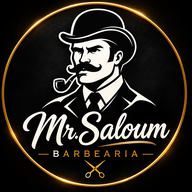
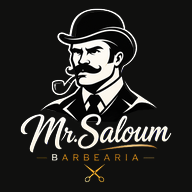
Padroniza a identidade visual do Mr.Saloum

Changed region(s): [[0.0, 0.0, 1.0, 1.0]]

diff --git a/src/App.jsx b/src/App.jsx
@@ -1,4 +1,5 @@
 import './App.css'
+import BrandLogo from './BrandLogo'
 import { lazy, Suspense, useEffect, useRef, useState } from 'react'
 import { supabase } from './lib/supabase'
 import { calcularDuracaoSlots, totalItensRegistrados } from './bookingValues'
@@ -651,9 +652,7 @@ function ClienteApp() {
     return (
       <main className="auth-page">
         <div className="auth-card">
-          <div className="auth-brand">
-            MR.SAL<span>OUM</span>
-          </div>
+          <BrandLogo className="auth-brand" />
 
           <p>Carregando sua área...</p>
         </div>
@@ -665,9 +664,7 @@ function ClienteApp() {
     return (
       <main className="auth-page">
         <div className="auth-card">
-          <div className="auth-brand">
-            MR.SAL<span>OUM</span>
-          </div>
+          <BrandLogo className="auth-brand" />
 
           <p className="auth-eyebrow">SEJA BEM-VINDO</p>
 
@@ -731,13 +728,7 @@ function ClienteApp() {
     <main className="public-site">
       <header className="navbar">
         <a className="brand" href="#inicio">
-          <img
-            className="brand-logo"
-            src="/mr-saloum-logo-header.webp"
-            alt="Mr.Saloum Barbearia"
-            width="400"
-            height="460"
-          />
+          <BrandLogo className="brand-logo" />
         </a>
 
         <nav>
@@ -791,7 +782,7 @@ function ClienteApp() {
         <div role="presentation" onClick={() => setInstallOpen(false)} style={{position:'fixed',inset:0,zIndex:20000,background:'rgba(0,0,0,.78)',display:'flex',alignItems:'center',justifyContent:'center',padding:18}}>
           <section role="dialog" aria-modal="true" aria-labelledby="pwa-title" onClick={(e) => e.stopPropagation()} style={{position:'relative',width:'100%',maxWidth:410,background:'#191817',border:'1px solid #6b5638',borderRadius:18,padding:26,color:'#f5f1e9',boxShadow:'0 20px 80px #000a'}}>
             <button type="button" aria-label="Fechar convite" onClick={() => setInstallOpen(false)} style={{position:'absolute',right:14,top:12,background:'transparent',border:0,color:'#eee',fontSize:27,cursor:'pointer'}}>×</button>
-            <img src="/pwa-192.png" alt="Mr.Saloum" width="78" height="78" style={{borderRadius:18,objectFit:'cover',marginBottom:12}} />
+            <BrandLogo className="install-brand-logo" decorative />
             <h2 id="pwa-title" style={{margin:'0 0 10px',fontSize:23}}>Mr.Saloum no seu celular</h2>
             <p style={{lineHeight:1.6,color:'#d5d0c8'}}>Instale gratuitamente para agendar seu próximo corte com apenas um toque. Você também pode continuar usando o site normalmente.</p>
             {installPrompt ? (
@@ -1142,7 +1133,7 @@ function ClienteApp() {
           <p>Escolha seu profissional, selecione os serviços e reserve seu horário.</p>
         </div>
         <div className="hero-side-note">
-          <span className="hero-side-mark">M</span>
+          <BrandLogo className="hero-side-mark" decorative />
           <span>AGENDE ONLINE<br /><strong>SEM COMPLICAÇÃO</strong></span>
         </div>
       </section>
@@ -1416,8 +1407,7 @@ function ClienteApp() {
       {/* RODAPÉ */}
       <footer>
         <a className="brand" href="#inicio">
-          <span className="brand-mark">M</span>
-          <span>MR.SAL<span className="gold">OUM</span></span>
+          <BrandLogo className="footer-brand-logo" />
         </a>
 
         <p>
@@ -1436,7 +1426,7 @@ function App() {
   const caminho = window.location.pathname
 
   if (caminho.startsWith('/admin')) {
-    return <Suspense fallback={<p role="status">Carregando painel?</p>}><AdminPage /></Suspense>
+    return <Suspense fallback={<div role="status"><BrandLogo className="auth-brand" />Carregando painel?</div>}><AdminPage /></Suspense>
   }
 
   return <ClienteApp />

diff --git a/index.html b/index.html
@@ -2,8 +2,10 @@
 <html lang="pt-BR">
   <head>
     <meta charset="UTF-8" />
-    <link rel="icon" type="image/png" sizes="48x48" href="/favicon-48.png" />
-    <link rel="apple-touch-icon" sizes="192x192" href="/pwa-192.png" />
+    <link rel="icon" type="image/png" sizes="16x16" href="/favicon-16.png?v=11" />
+    <link rel="icon" type="image/png" sizes="32x32" href="/favicon-32.png?v=11" />
+    <link rel="icon" type="image/png" sizes="48x48" href="/favicon-48.png?v=11" />
+    <link rel="apple-touch-icon" sizes="180x180" href="/apple-touch-icon.png?v=11" />
     <meta name="viewport" content="width=device-width, initial-scale=1.0" />
     <title>Mr.Saloum Barbearia em Parnamirim | Agende Online</title>
     <meta name="description" content="Agende seu corte de cabelo, barba e sobrancelha na Mr.Saloum Barbearia, em Parnamirim/RN. Escolha seu barbeiro e reserve seu horário online." />
@@ -14,14 +16,14 @@
     <meta property="og:url" content="%SITE_ORIGIN%/" />
     <meta property="og:title" content="Mr.Saloum Barbearia em Parnamirim | Agende Online" />
     <meta property="og:description" content="Escolha seu barbeiro e agende seu corte, barba ou sobrancelha em Parnamirim/RN." />
-    <meta property="og:image" content="%SITE_ORIGIN%/mr-saloum-share.jpg" />
+    <meta property="og:image" content="%SITE_ORIGIN%/mr-saloum-share.jpg?v=11" />
     <meta property="og:image:width" content="1200" />
     <meta property="og:image:height" content="630" />
     <meta property="og:image:alt" content="Logotipo oficial da Mr.Saloum Barbearia sobre fundo preto" />
     <meta name="twitter:card" content="summary_large_image" />
     <meta name="twitter:title" content="Mr.Saloum Barbearia em Parnamirim | Agende Online" />
     <meta name="twitter:description" content="Escolha seu barbeiro e agende seu corte, barba ou sobrancelha em Parnamirim/RN." />
-    <meta name="twitter:image" content="%SITE_ORIGIN%/mr-saloum-share.jpg" />
+    <meta name="twitter:image" content="%SITE_ORIGIN%/mr-saloum-share.jpg?v=11" />
     <meta name="twitter:image:alt" content="Logotipo oficial da Mr.Saloum Barbearia sobre fundo preto" />
     <script type="application/ld+json">
       {
@@ -29,7 +31,7 @@
         "@type": "HairSalon",
         "name": "Mr.Saloum Barbearia",
         "url": "%SITE_ORIGIN%/",
-        "image": "%SITE_ORIGIN%/mr-saloum-share.jpg",
+        "image": "%SITE_ORIGIN%/mr-saloum-share.jpg?v=11",
         "address": {
           "@type": "PostalAddress",
           "addressLocality": "Parnamirim",

diff --git a/src/App.css b/src/App.css
@@ -1217,23 +1217,11 @@ input {
 
 
 .auth-brand {
-
-  font-size: 25px;
-
-  font-weight: 800;
-
-  margin-bottom: 35px;
-
-  letter-spacing: 1px;
-
-}
-
-
-
-.auth-brand span {
-
-  color: #c49a52;
-
+  display: block;
+  width: auto;
+  height: 86px;
+  margin-bottom: 20px;
+  object-fit: contain;
 }
 
 
@@ -4434,6 +4422,19 @@ main.public-site .brand-logo {
   object-fit: contain;
 }
 
+main.public-site .footer-brand-logo,
+main.public-site .install-brand-logo {
+  display: block;
+  width: auto;
+  height: 56px;
+  object-fit: contain;
+}
+
+main.public-site .install-brand-logo {
+  height: 78px;
+  margin-bottom: 12px;
+}
+
 html:has(main.public-site > .navbar) {
   scroll-padding-top: 90px;
 }
@@ -4536,13 +4537,9 @@ main.public-site .hero-side-note strong {
 }
 
 main.public-site .hero-side-mark {
-  display: grid;
-  place-items: center;
-  width: 35px;
-  height: 35px;
-  border: 1px solid var(--ms-accent);
-  color: var(--ms-accent);
-  font: 25px Georgia, serif;
+  width: auto;
+  height: 38px;
+  object-fit: contain;
 }
 
 main.public-site .booking-workspace {
@@ -6093,8 +6090,7 @@ main.public-site .navbar-actions .nav-button {
   padding-block: 12px;
 }
 
-.admin-shell-brand { font-size: 1.18rem; letter-spacing: .08em; }
-.admin-shell-brand span { color: #c5a46d; }
+.admin-shell-brand { display: block; width: auto; height: 48px; object-fit: contain; }
 .admin-shell-account { display: grid; justify-items: end; min-width: 0; }
 .admin-shell-account strong { max-width: 100%; overflow: hidden; text-overflow: ellipsis; white-space: nowrap; }
 .admin-shell-account span { color: #c0b8a8; font-size: .73rem; }
@@ -6177,7 +6173,7 @@ main.public-site .navbar-actions .nav-button {
 @media (max-width: 680px) {
   .admin-shell-top, .admin-shell-nav, .admin-shell-content { width: calc(100% - 20px); }
   .admin-shell-top { gap: 9px; padding-block: 8px; }
-  .admin-shell-brand { font-size: .95rem; }
+  .admin-shell-brand { height: 42px; }
   .admin-shell-account { font-size: .85rem; }
   .admin-shell-nav { gap: 2px; }
   .admin-shell-nav button { flex: 1; flex-direction: column; gap: 3px; font-size: .72rem; padding-inline: 1px; }

diff --git a/src/AdminApp.jsx b/src/AdminApp.jsx
@@ -2,6 +2,7 @@ import { lazy, Suspense, useCallback, useEffect, useRef, useState } from 'react'
 import { supabase } from './lib/supabase'
 import MobileBarberCalendar from './MobileBarberCalendar'
 import AdminNavigation from './AdminNavigation'
+import BrandLogo from './BrandLogo'
 import { adminSections } from './adminSections'
 import { editableBarberProfiles } from './barberProfile'
 import { appointmentSwipeAction, historicalBarbers } from './barberCalendarNavigation'
@@ -1215,9 +1216,7 @@ export default function AdminPage() {
     return (
       <main className="auth-page">
         <div className="auth-card">
-          <div className="auth-brand">
-            MR.SAL<span>OUM</span>
-          </div>
+          <BrandLogo className="auth-brand" />
 
           <p>Verificando acesso administrativo...</p>
         </div>
@@ -1230,9 +1229,7 @@ export default function AdminPage() {
     return (
       <main className="auth-page">
         <div className="auth-card">
-          <div className="auth-brand">
-            MR.SAL<span>OUM</span>
-          </div>
+          <BrandLogo className="auth-brand" />
 
           <p className="auth-eyebrow">ÁREA RESTRITA</p>
 

diff --git a/vite.config.js b/vite.config.js
@@ -20,10 +20,7 @@ export default defineConfig(({ mode }) => ({
       filename: 'sw.js',
       injectRegister: false,
 
-      includeAssets: [
-        'pwa-192.png',
-        'pwa-512.png',
-      ],
+      includeAssets: ['mr-saloum-logo-header.webp'],
 
       manifest: {
         name: 'Mr.Saloum Barbearia',
@@ -41,16 +38,28 @@ export default defineConfig(({ mode }) => ({
 
         icons: [
           {
-            src: '/pwa-192.png',
+            src: '/pwa-192.png?v=11',
             sizes: '192x192',
             type: 'image/png',
             purpose: 'any',
           },
           {
-            src: '/pwa-512.png',
+            src: '/pwa-512.png?v=11',
             sizes: '512x512',
             type: 'image/png',
-            purpose: 'any maskable',
+            purpose: 'any',
+          },
+          {
+            src: '/pwa-maskable-192.png?v=11',
+            sizes: '192x192',
+            type: 'image/png',
+            purpose: 'maskable',
+          },
+          {
+            src: '/pwa-maskable-512.png?v=11',
+            sizes: '512x512',
+            type: 'image/png',
+            purpose: 'maskable',
           },
         ],
       },

diff --git a/src/AdminNavigation.jsx b/src/AdminNavigation.jsx
@@ -1,3 +1,5 @@
+import BrandLogo from './BrandLogo'
+
 const icons = {
   agenda: 'M3 6h18v15H3z M7 3v6m10-6v6M3 11h18',
   equipe: 'M16 21v-2a4 4 0 0 0-4-4H6a4 4 0 0 0-4 4v2m20 0v-2a4 4 0 0 0-3-4m-6-6a4 4 0 1 1-8 0 4 4 0 0 1 8 0m4-4a4 4 0 0 1 0 8',
@@ -10,7 +12,7 @@ export default function AdminNavigation({ name, role, sections, active, onSelect
   return (
     <header className="admin-shell-header">
       <div className="admin-shell-top">
-        <strong className="admin-shell-brand">MR.SAL<span>OUM</span></strong>
+        <BrandLogo className="admin-shell-brand" />
         <div className="admin-shell-account"><strong>{name}</strong><span>{role}</span></div>
         <button type="button" onClick={onLogout} aria-label="Sair da conta">Sair</button>
       </div>

diff --git a/src/sw.js b/src/sw.js
@@ -55,7 +55,12 @@ async function asset(request) {
 self.addEventListener('fetch', (event) => {
   const { request } = event
   const url = new URL(request.url)
-  if (request.method !== 'GET' || url.origin !== origin || url.search || request.headers.has('authorization')) return
+  if (request.method !== 'GET' || url.origin !== origin || request.headers.has('authorization')) return
+  if (assets.includes(url.href)) {
+    event.respondWith(asset(request))
+    return
+  }
+  if (url.search) return
   if (request.mode === 'navigate' && ['/', '/admin', '/admin/', '/admin/index.html'].includes(url.pathname)) {
     event.respondWith(navigation(request, url))
   } else if (url.pathname.startsWith('/assets/')) {

diff --git a/admin/index.html b/admin/index.html
@@ -2,7 +2,10 @@
 <html lang="pt-BR">
   <head>
     <meta charset="UTF-8" />
-    <link rel="icon" type="image/png" sizes="48x48" href="/favicon-48.png" />
+    <link rel="icon" type="image/png" sizes="16x16" href="/favicon-16.png?v=11" />
+    <link rel="icon" type="image/png" sizes="32x32" href="/favicon-32.png?v=11" />
+    <link rel="icon" type="image/png" sizes="48x48" href="/favicon-48.png?v=11" />
+    <link rel="apple-touch-icon" sizes="180x180" href="/apple-touch-icon.png?v=11" />
     <meta name="robots" content="noindex, nofollow" />
     <meta name="viewport" content="width=device-width, initial-scale=1.0" />
     <title>Painel Mr.Saloum</title>

diff --git a/tests/seo.test.js b/tests/seo.test.js
@@ -23,7 +23,7 @@ test('HTML inicial público tem canonical, imagem social e JSON-LD; painel tem n
   const index = read('index.html')
   const admin = read('admin/index.html')
   assert.ok(index.includes(`href="${DEFAULT_SITE_ORIGIN}/"`))
-  assert.ok(index.includes(`content="${DEFAULT_SITE_ORIGIN}/mr-saloum-share.jpg"`))
+  assert.ok(index.includes(`content="${DEFAULT_SITE_ORIGIN}/mr-saloum-share.jpg?v=11"`))
   assert.match(index, /"@type": "HairSalon"/)
   assert.match(index, /"addressLocality": "Parnamirim"/)
   assert.doesNotMatch(index, /telephone|geoCoordinates|aggregateRating/)

diff --git a/src/BrandLogo.jsx b/src/BrandLogo.jsx
@@ -1,0 +1,11 @@
+export default function BrandLogo({ className, decorative = false }) {
+  return (
+    <img
+      className={className}
+      src="/mr-saloum-logo-header.webp"
+      alt={decorative ? '' : 'Mr.Saloum Barbearia'}
+      width="400"
+      height="460"
+    />
+  )
+}
